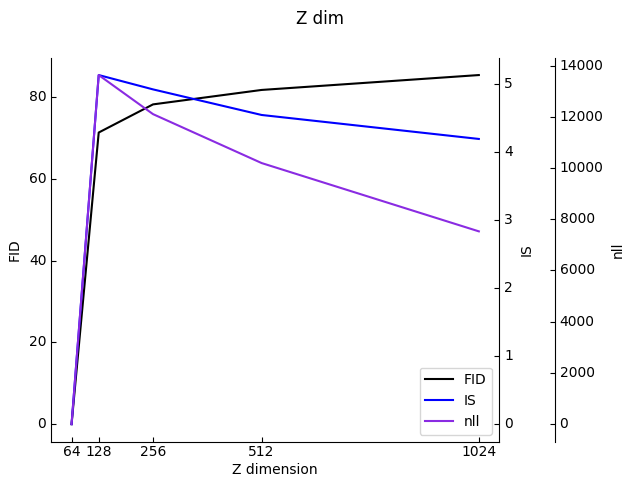
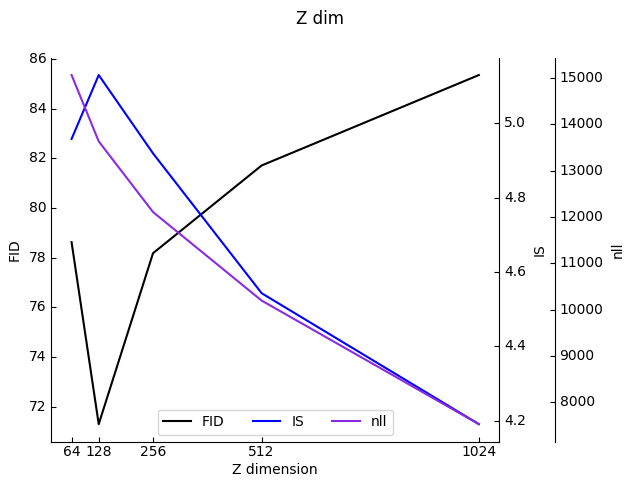
tab4 fig

diff --git a/code/experiments/tab4.py b/code/experiments/tab4.py
@@ -20,9 +20,9 @@ import numpy as np
 import os
 
 Z_dim = [64,128,256,512,1024]
-FID = [0,71.3,78.1806,81.7122,85.3522]
-IS = [0,5.12981,4.91918,4.54314,4.19091]
-nll = [0,13632,12106.1,10195.4,7528.38]
+FID = [78.6269,71.3,78.1806,81.7122,85.3522]
+IS = [4.95797,5.12981,4.91918,4.54314,4.19091]
+nll = [15063.1,13632,12106.1,10195.4,7528.38]
 
 cname = [ 
     '#000000', '#0000FF', 
@@ -63,7 +63,7 @@ def makeFigure(name='Z dim',path='./',dpi=100):
         ax_para.set_ylabel(name)
         ax_para.axis['right'] = ax_paraD(loc='right',  offset=(40*cnt, 0), axes=ax_para)
         ax_para.plot(x, y, label=name, color=cname[cnt+1])
-        plt.legend(loc=0)
+        plt.legend(loc=8, ncol=3)
 
     paraAxis(Z_dim, IS, "IS",0)
     paraAxis(Z_dim, nll, "nll",1)
